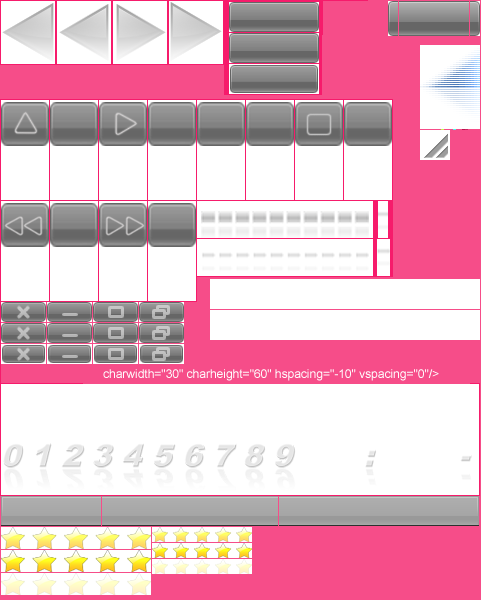
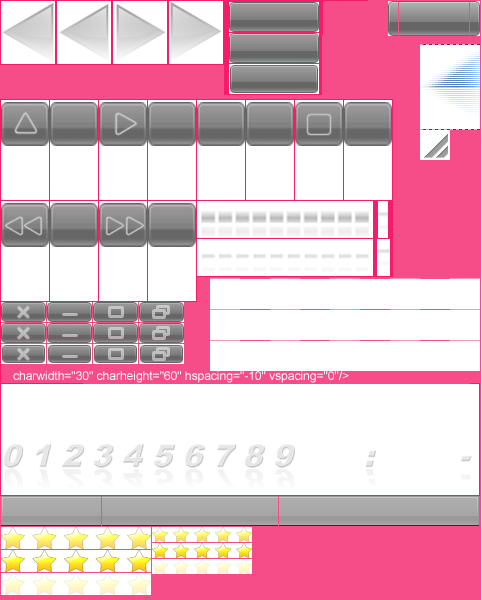
-added buttons for browser. -few bug fixes. -added some guide marks on graphics.png

Changed region(s): [[0.0311, 0.54, 0.9959, 0.66]]

diff --git a/skins/Komodo/engine/scripts/main.m b/skins/Komodo/engine/scripts/main.m
@@ -38,9 +38,11 @@ Global WindowHolder AVSHolder, VideoHolder, MLHolder;
 Global int localOpen, openVIDAVS;
 Global timer delayVisShow, delayClearLocalOpen, delayRequestPageSwitch;
 Global browser mainBrowser;
+Global string homepage;
 
 Global group pbuttonsWindow, pbuttonsFull;
 Global button buttonWindow, buttonFull;
+Global button buttonIEPrev, buttonIENext, buttonIEReload, buttonIEStop, buttonIEHome;
 Global guiobject topbar;
 Global int nosizesave;
 
@@ -88,6 +90,14 @@ System.onScriptLoaded() {
 	
 	MLHolder = main.findObject("wndhlr.ml");
 	mainBrowser = main.findObject("main.browser");
+	
+	buttonIEPrev = main.findObject("ieprev.button");
+	buttonIENext = main.findObject("ienext.button");
+	buttonIEReload = main.findObject("ierefresh.button");
+	buttonIEStop = main.findObject("iestop.button");
+	buttonIEHome = main.findObject("iehome.button");
+	homepage = "http://komodo.nitrousaudio.com/";
+	mainBrowser.navigateURL(homepage);
 	
 	delayVisShow = new Timer;
 	delayVisShow.setDelay(1500);
@@ -194,7 +204,8 @@ main.onAction(String action, String param, Int x, int y, int p1, int p2, GuiObje
 		
 		if (param=="player.main.vis" || param=="player.main.ml" || param=="player.main.ie") {
 			if (param=="player.main.ml") openVIDAVS = OPENML;
-			if (param=="player.main.ie") openVIDAVS = OPENIE;
+			else if (param=="player.main.ie") openVIDAVS = OPENIE;
+			else if (openVIDAVS != OPENVID && openVIDAVS != OPENAVS) openVIDAVS = -1;
 			
 			delayVisShow.start();
 			
@@ -239,7 +250,6 @@ delayVisShow.onTimer() {
 		MLHolder.show();
 	} else if (openVIDAVS == OPENIE) {
 		mainBrowser.show();
-		
 	} else if ((isVideo() && openVIDAVS==0) || openVIDAVS == OPENVID) {
 		VideoHolder.show();
 		vidButtons.show();
@@ -249,7 +259,7 @@ delayVisShow.onTimer() {
 	}
 	delayClearLocalOpen.start();
 	
-	openVIDAVS = 0;
+	openVIDAVS = -1;
 }
 
 delayClearLocalOpen.onTimer() {
@@ -333,6 +343,37 @@ xfadetime.onDataChanged() {
 		xfade.setData("1");
 	if (getData()=="0" && xfade.getData()!="0") 
 		xfade.setData("0");
+}
+
+// browser controls
+buttonIEPrev.onLeftClick() {
+	if (!mainBrowser.isVisible()) return;
+	
+	mainBrowser.back();
+}
+
+buttonIENext.onLeftClick() {
+	if (!mainBrowser.isVisible()) return;
+	
+	mainBrowser.forward();
+}
+
+buttonIEReload.onLeftClick() {
+	if (!mainBrowser.isVisible()) return;
+	
+	mainBrowser.refresh();
+}
+
+buttonIEStop.onLeftClick() {
+	if (!mainBrowser.isVisible()) return;
+	
+	mainBrowser.stop();
+}
+
+buttonIEHome.onLeftClick() {
+	if (!mainBrowser.isVisible()) return;
+	
+	mainBrowser.navigateUrl(homepage);
 }
 
 // window/fullscreen controls
